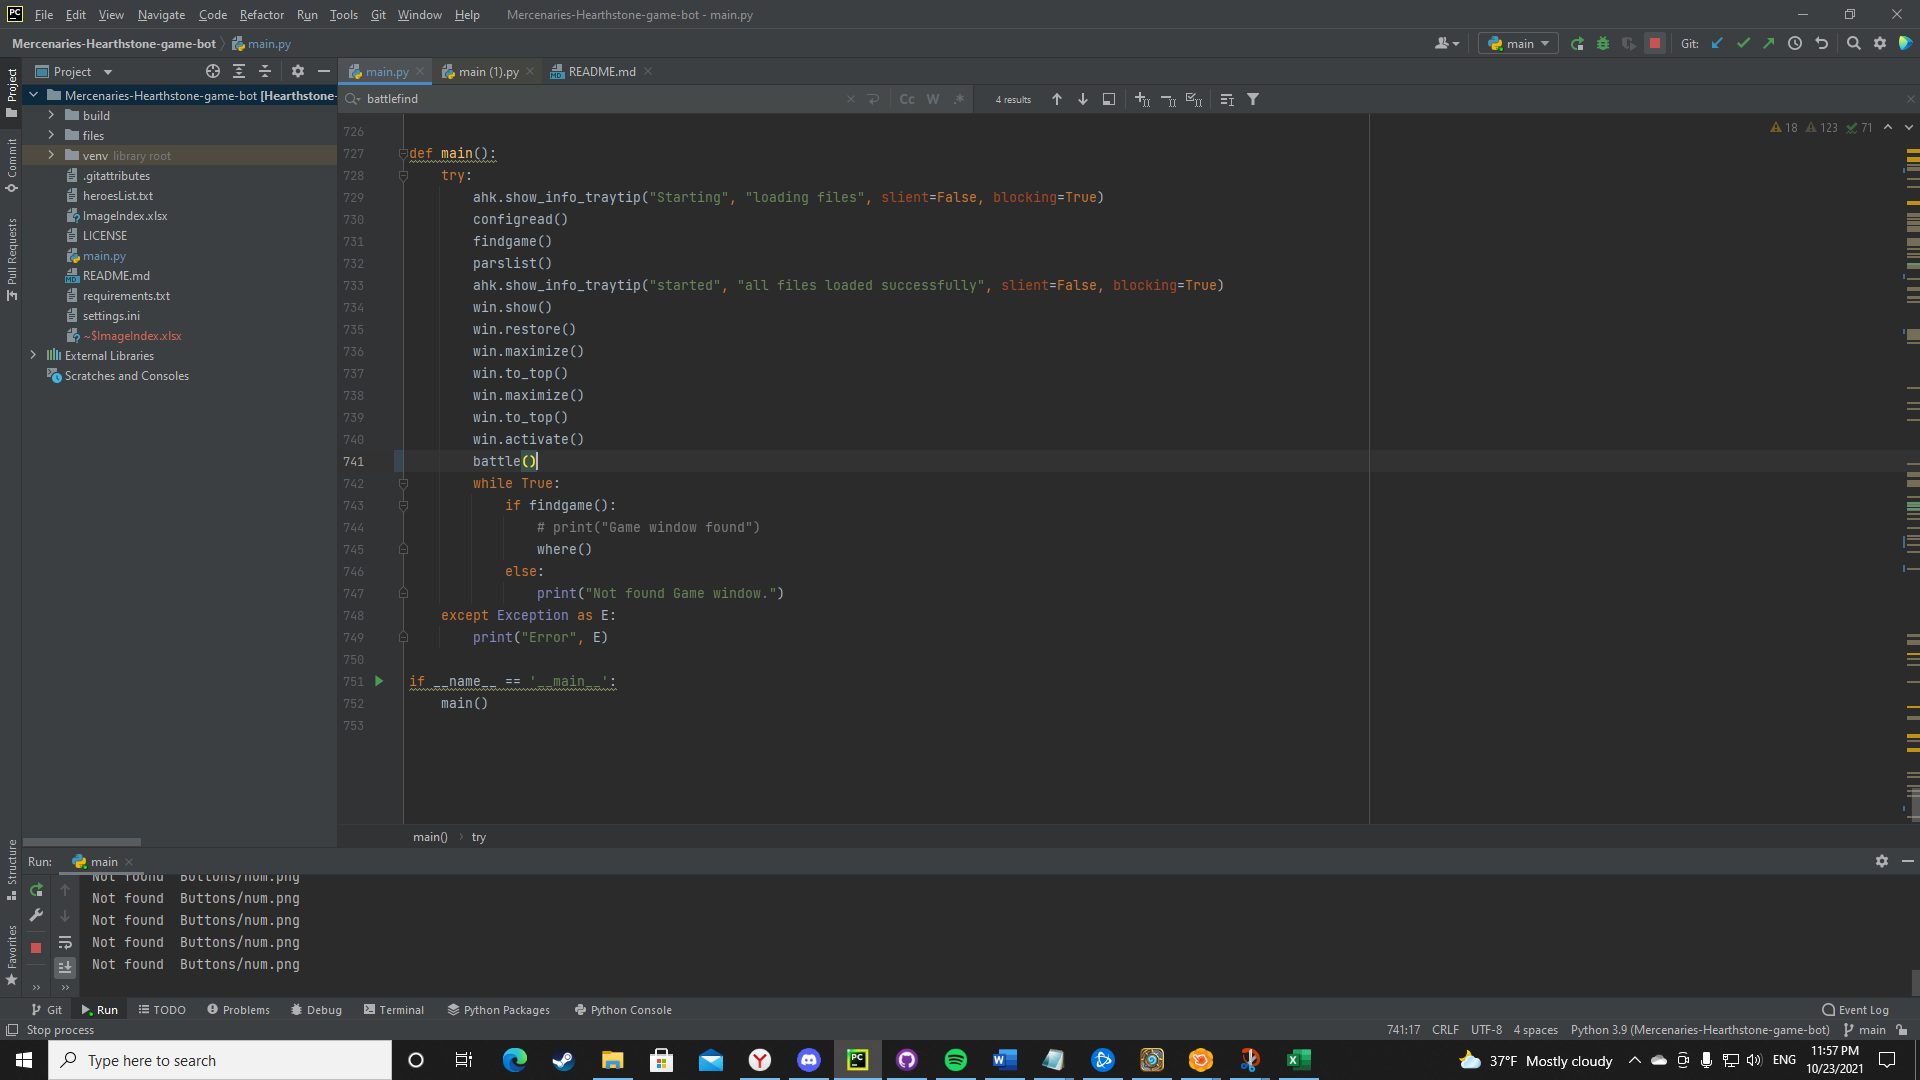
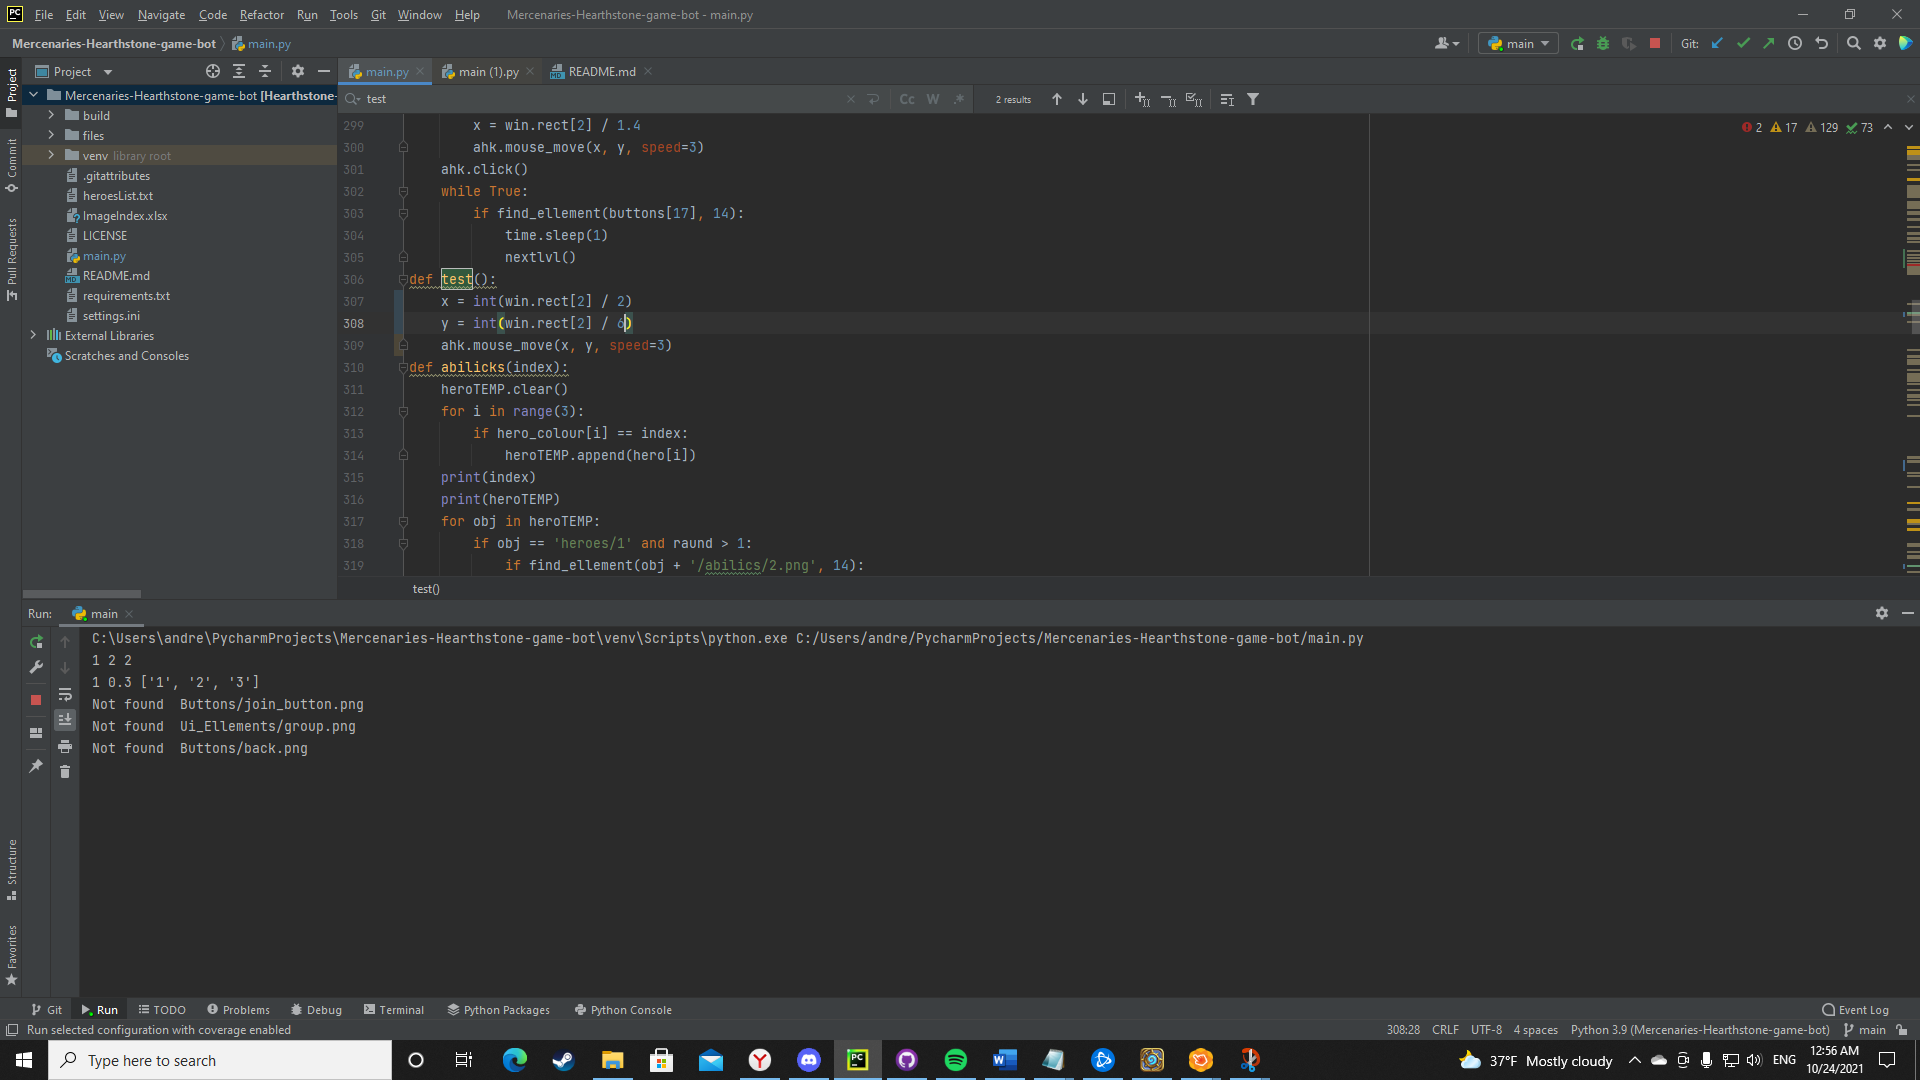
battlefix

diff --git a/main.py b/main.py
@@ -194,20 +194,34 @@ def move(index):
 
 
 def rand(enemyred, enemygreen, enemyblue, enemynoclass):
+    count=0
     while True:
         a = random.randint(0, 3)
         if a == 0:
             if not move(enemygreen):
                 break
+        else:
+            count+=1
         if a == 1:
             if not move(enemyred):
                 break
+        else:
+            count+=1
         if a == 2:
             if not move(enemyblue):
                 break
+        else:
+            count+=1
         if a == 3:
             if not move(enemynoclass):
                 break
+        else:
+            count+=1
+        if count>3:
+            x = int(win.rect[2] / 2)
+            y = int(win.rect[2] / 6)
+            ahk.mouse_drag(x, y, speed=3, relative=False)
+            ahk.click()
 def backtomenu():
     where()
 def collect():
@@ -292,12 +306,9 @@ def Tres():
             time.sleep(1)
             nextlvl()
 def test():
-    while True:
-        if find_ellement(Ui_Ellements[21], 1):
-            ahk.mouse_move(win.rect[2] / 2, win.rect[3] - win.rect[3] / 4.8, speed=3)
-            x = int(win.rect[2] / 2.5)
-            y = int(win.rect[2] / 4)
-            ahk.mouse_move(x, y, speed=3)
+    x = int(win.rect[2] / 2)
+    y = int(win.rect[2] / 6)
+    ahk.mouse_move(x, y, speed=3)
 def abilicks(index):
     heroTEMP.clear()
     for i in range(3):
@@ -557,15 +568,16 @@ def group_create():
         print(win.rect)
         x=int(win.rect[2] /1.3)
         y=int(win.rect[3] / 9)
-        while not find_ellement(chekers[14], 14):
-            ahk.mouse_move(x,y, speed=3)
-            time.sleep(0.5)
-            ahk.click()
-            temp = speed
-            speed = 0
-            ahk.send_input('Botwork', 0)
-            find_ellement(Ui_Ellements[10], 0)
-            time.sleep(1)
+        #while not find_ellement(chekers[14], 14):
+        ahk.mouse_move(x, y, speed=3)
+        time.sleep(0.5)
+        ahk.click()
+        temp = speed
+        speed = 0
+        ahk.send_input('Botwork', 0)
+        find_ellement(Ui_Ellements[10], 0)
+        time.sleep(1)
+
         find(0)
         find(1)
         find(2)
@@ -740,7 +752,7 @@ def main():
         win.maximize()
         win.to_top()
         win.activate()
-        battle()
+        test()
         while True:
             if findgame():
                 # print("Game window found")
